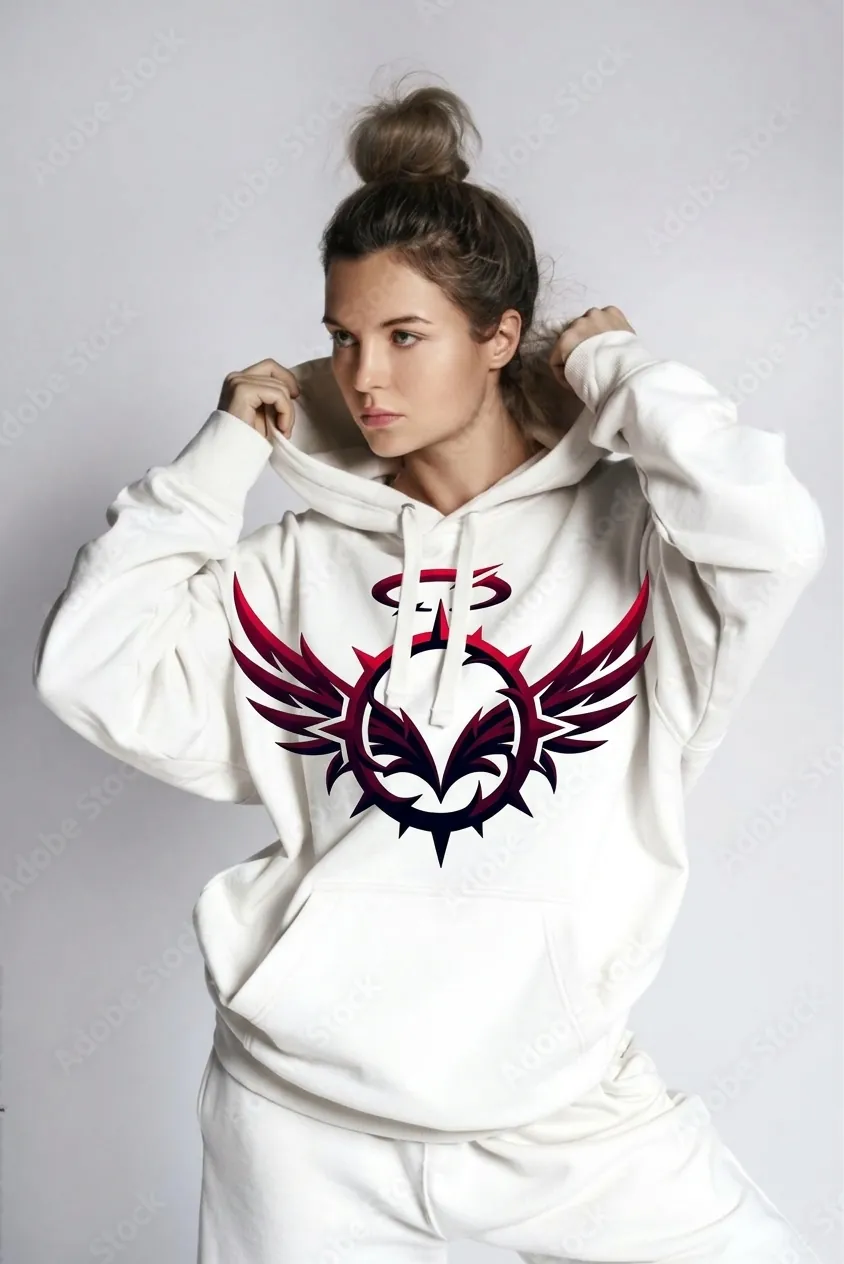
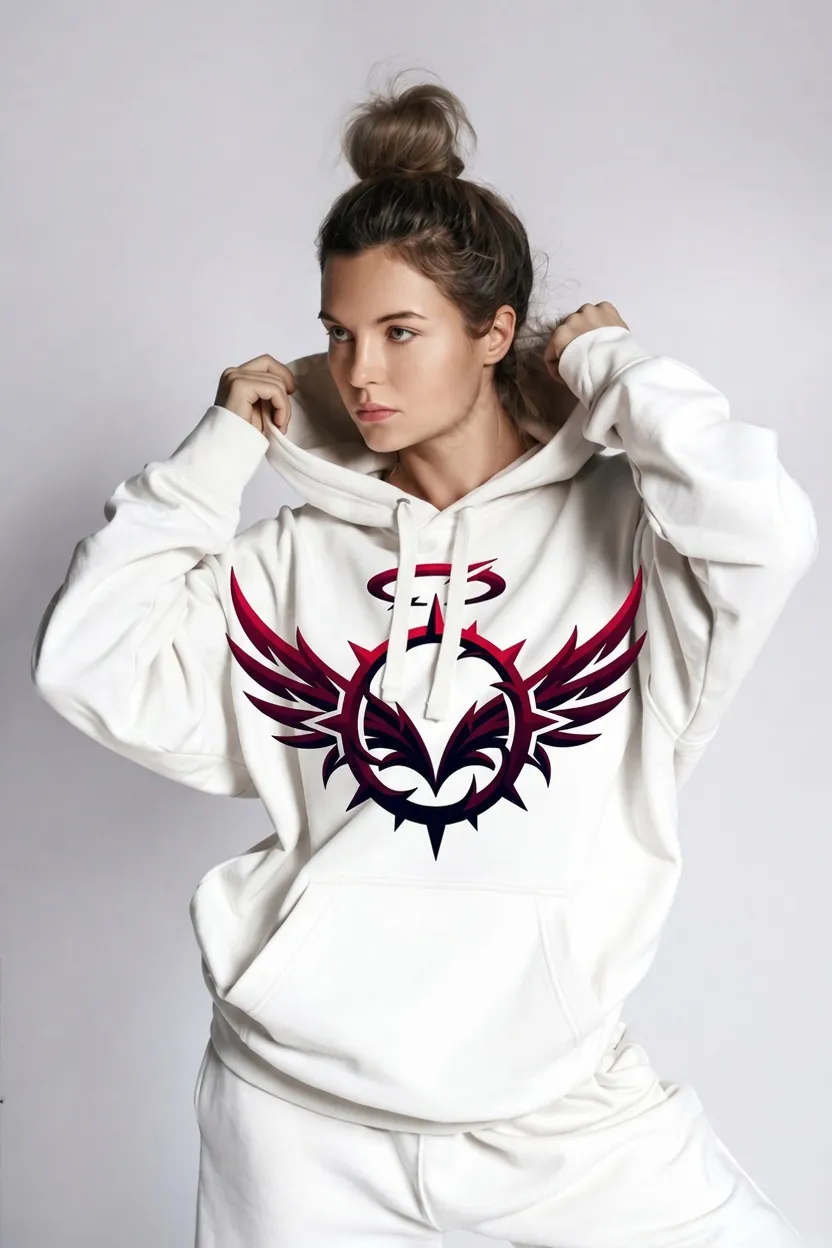
Use the unwatermarked hoodie photo on the Merch page
Claude-Session: https://claude.ai/code/session_019zXAqk6YDs56xiR7ifH3Vk

diff --git a/src/app/components/VersaEmergeMerch.tsx b/src/app/components/VersaEmergeMerch.tsx
@@ -83,7 +83,7 @@ const products: Product[] = [
         swatch: '#f1efe9',
         image: 'hoodie-1000.webp',
         imageSm: 'hoodie-560.webp',
-        width: 844,
+        width: 832,
         smWidth: 560,
         focus: '50% 35%',
       },
